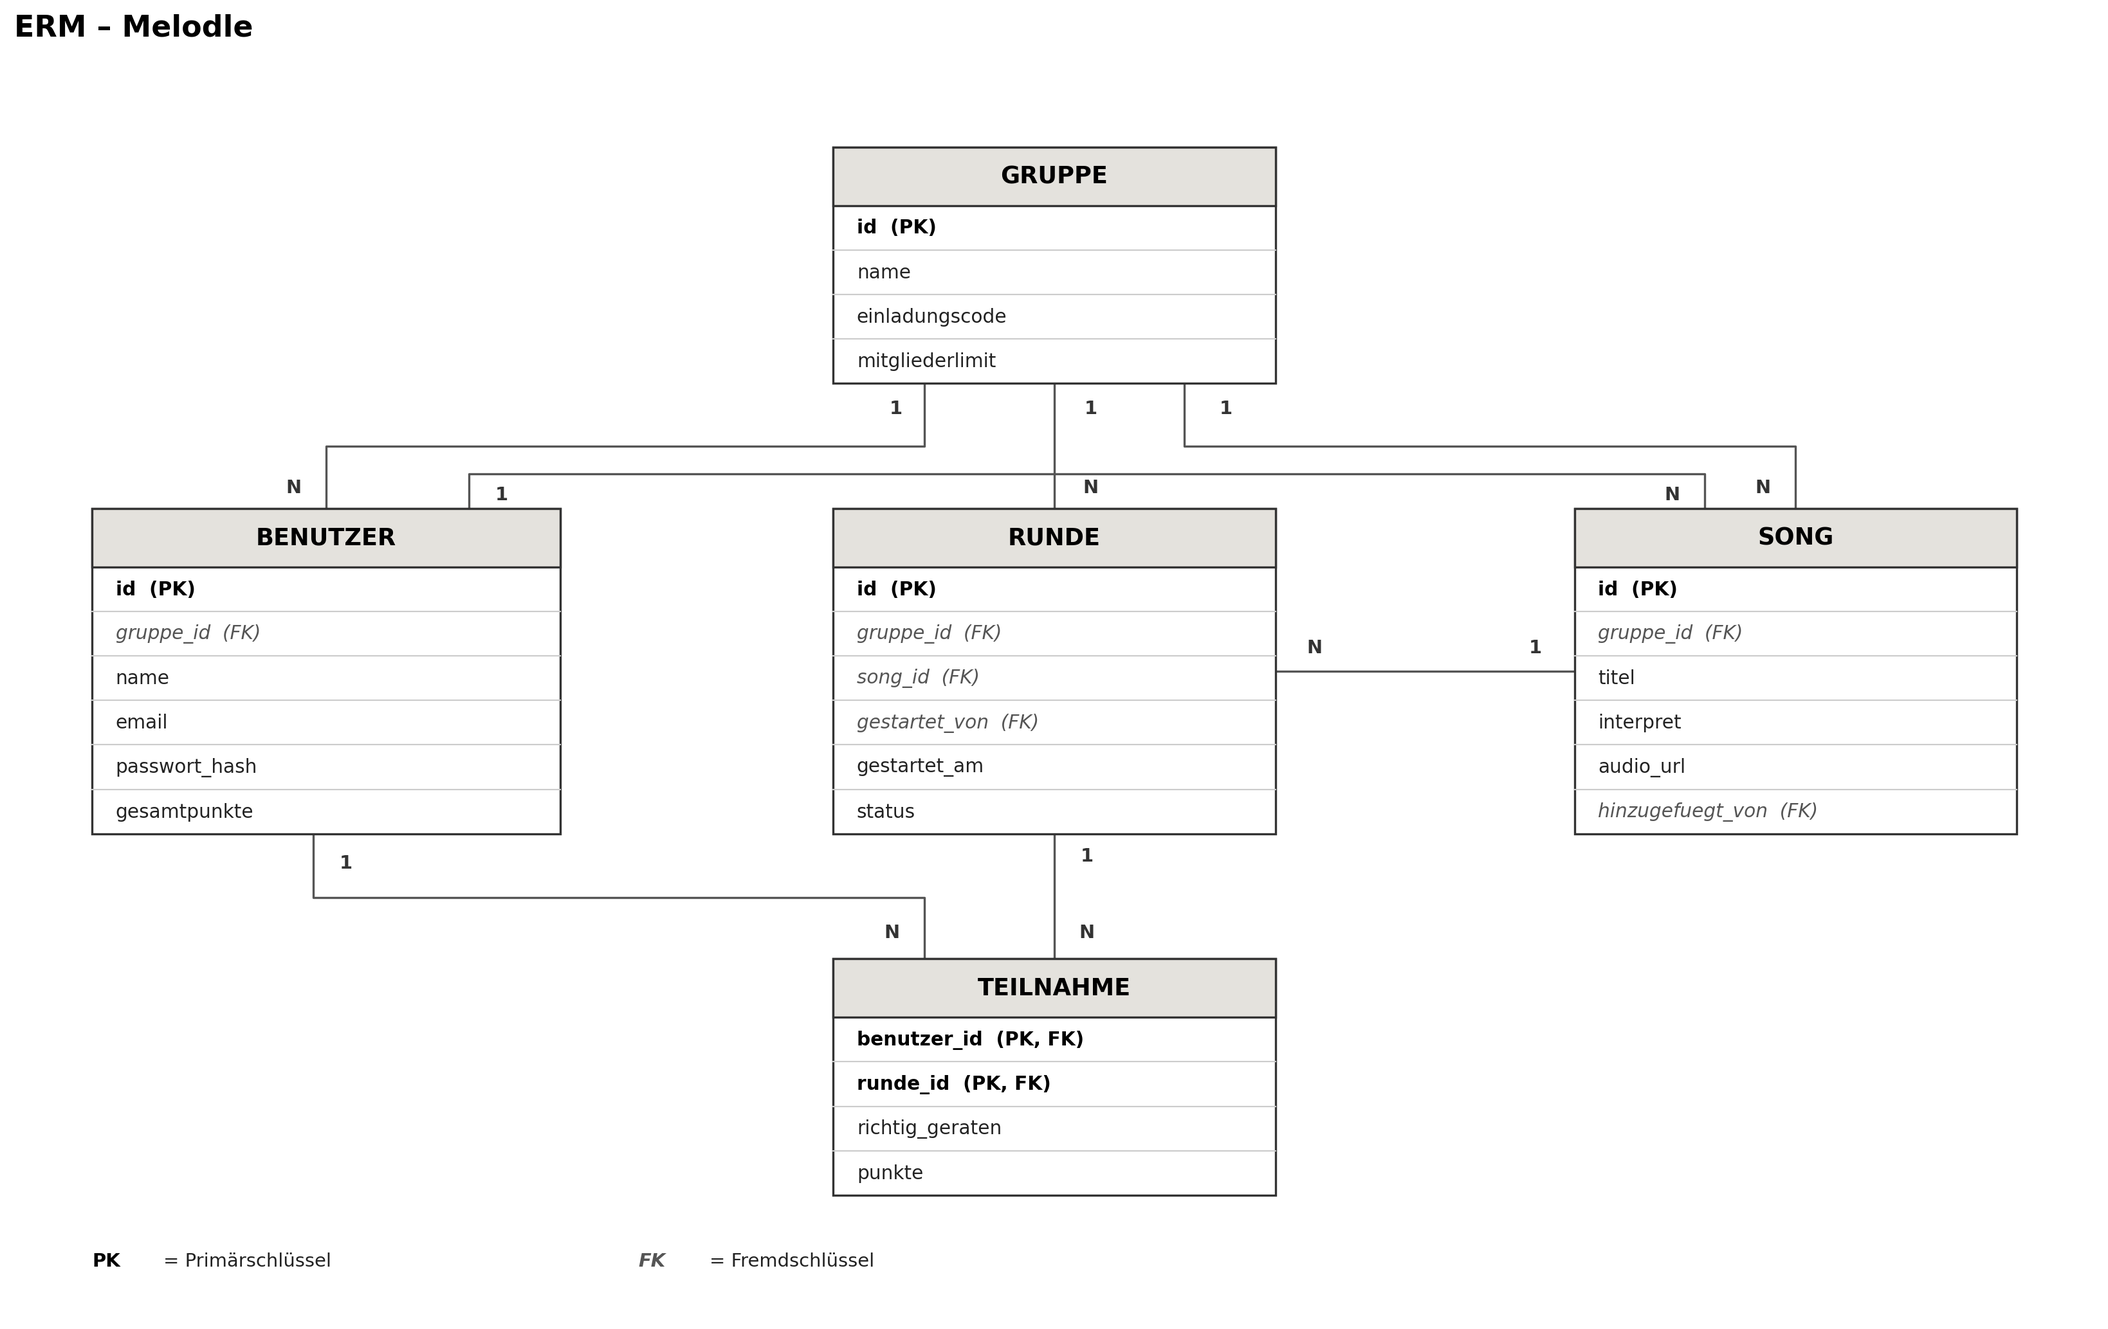
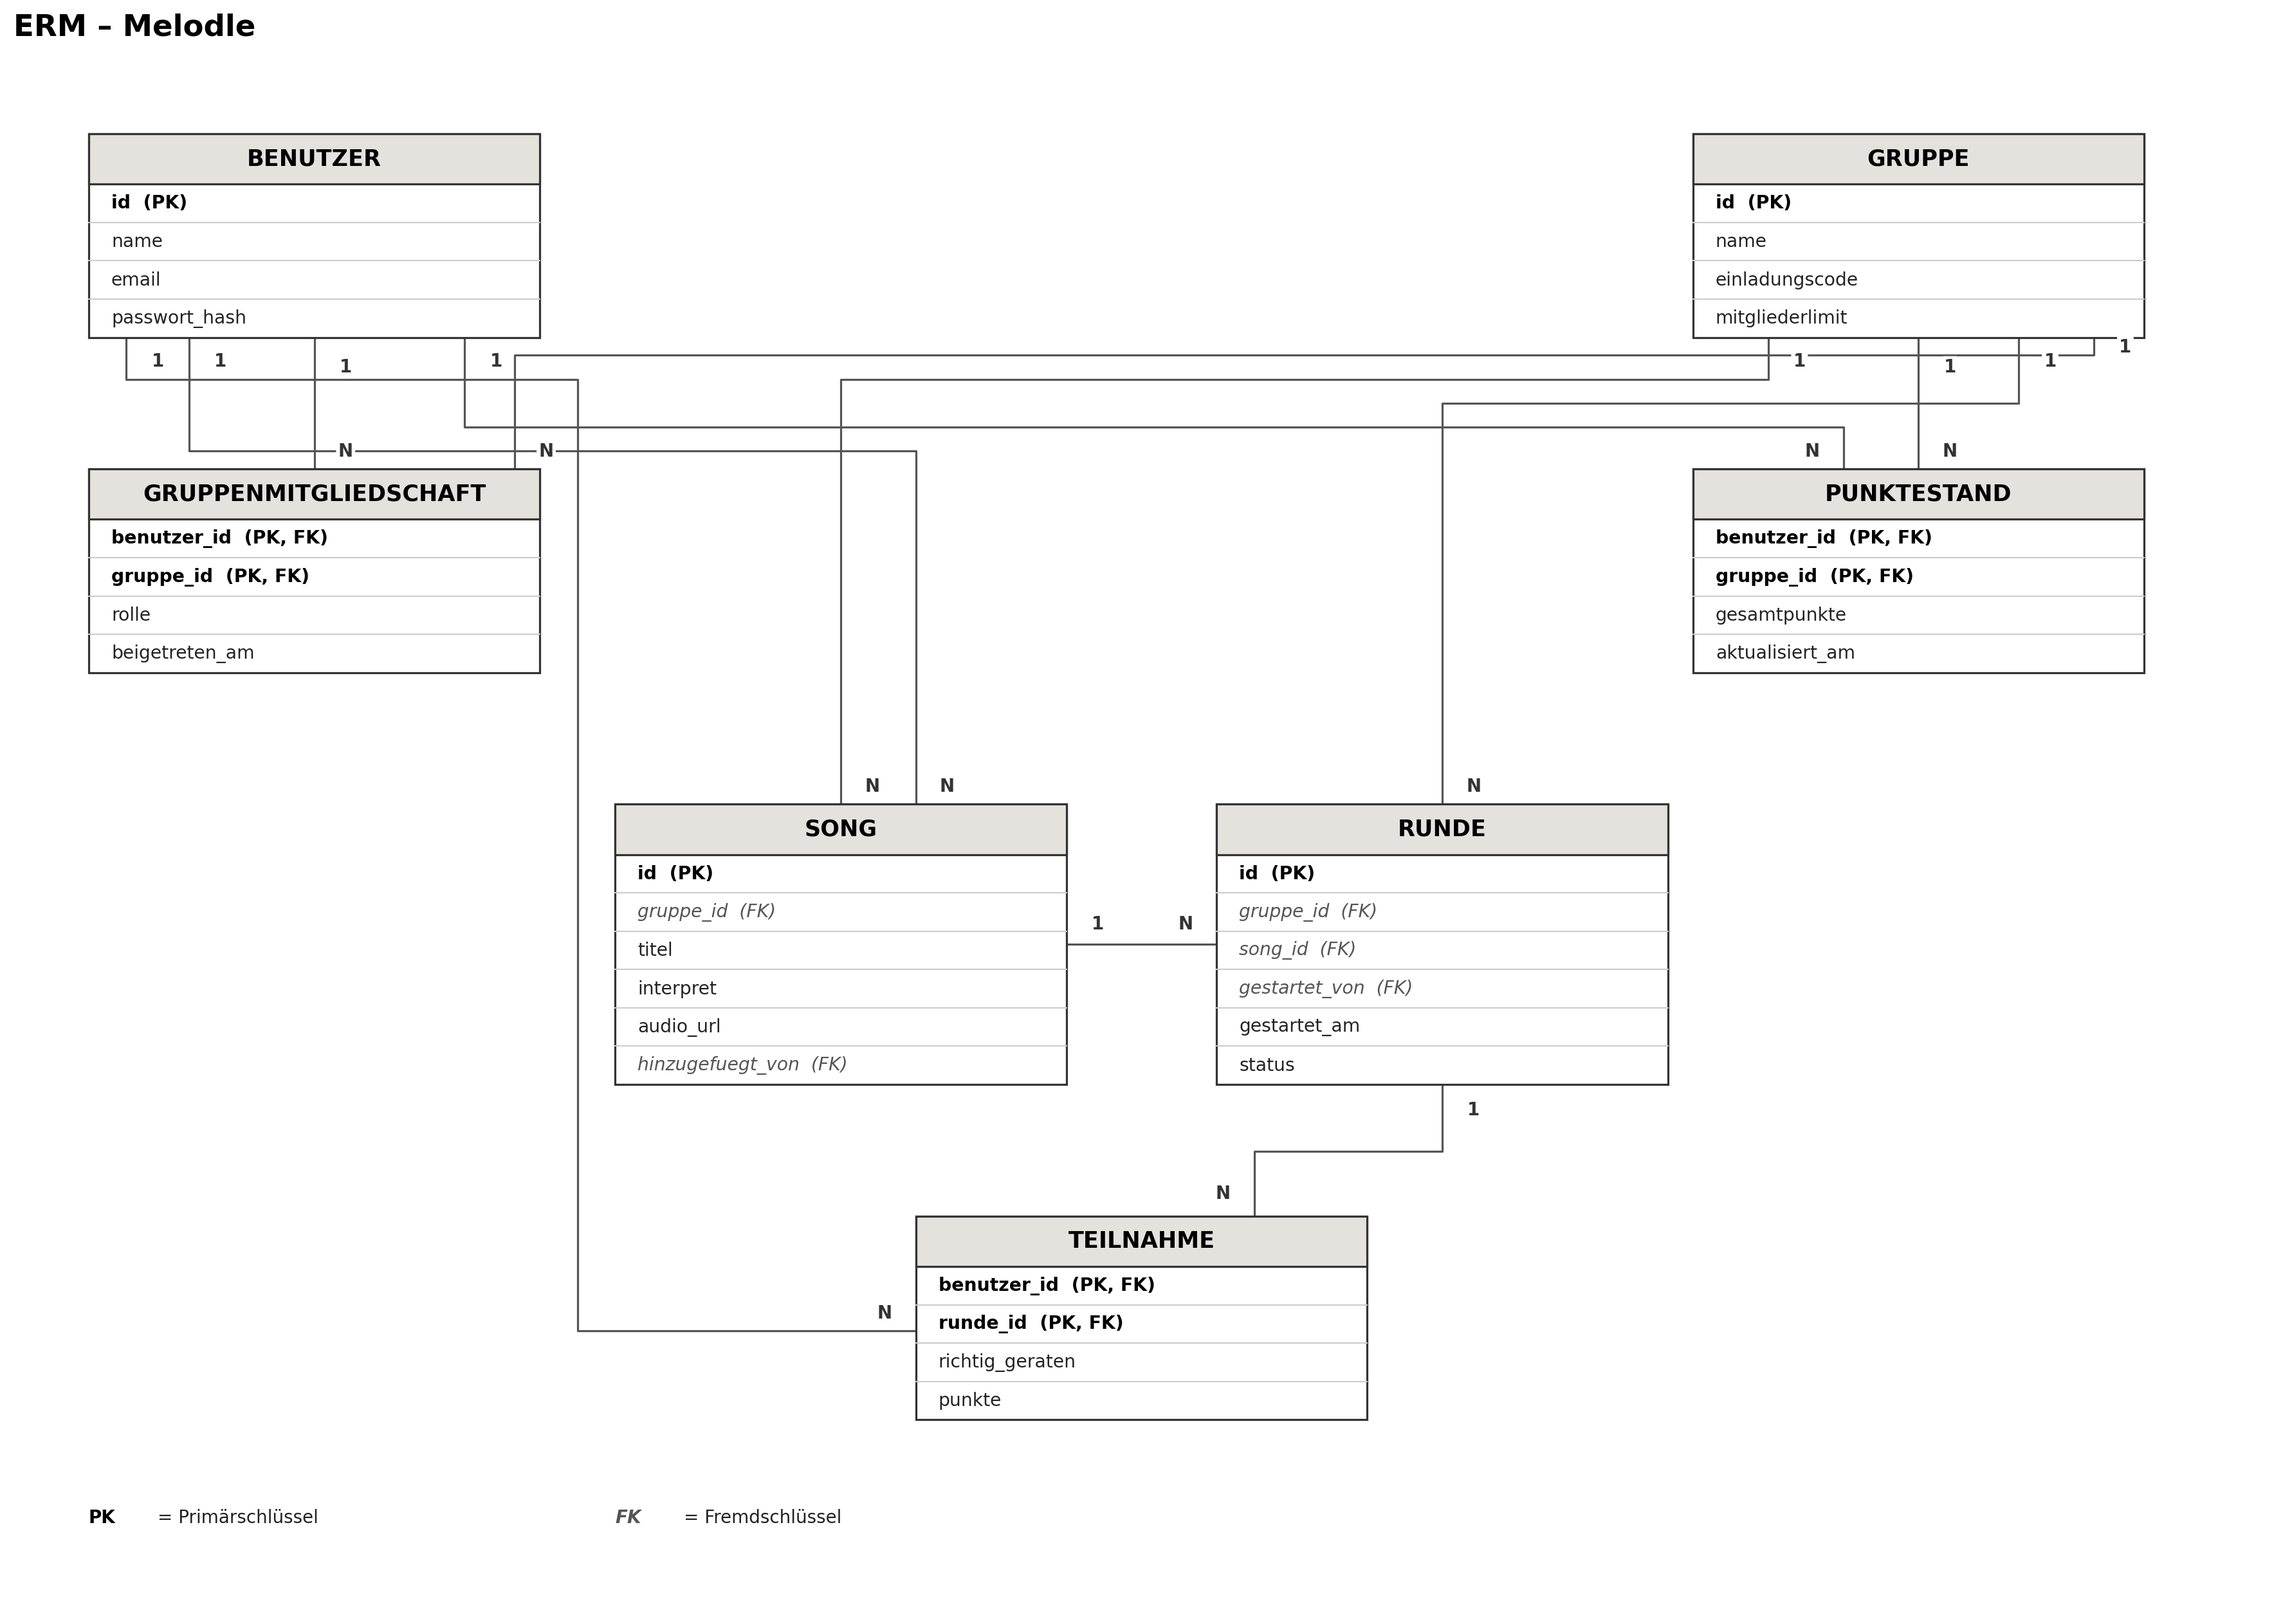
profiles password change blabalbala

diff --git a/test/integration/profile_test.rb b/test/integration/profile_test.rb
@@ -1,0 +1,81 @@
+require "test_helper"
+
+class ProfileTest < ActionDispatch::IntegrationTest
+  setup do
+    @user = users(:alice)
+  end
+
+  def login
+    post session_path, params: { email: @user.email, password: "correct-horse-battery" }
+  end
+
+  test "profile requires login" do
+    get profile_path
+    assert_redirected_to new_session_path
+  end
+
+  test "display name can be changed" do
+    login
+    patch profile_path, params: { user: { display_name: "Alice B", email: @user.email } }
+    assert_redirected_to profile_path
+    assert_equal "Alice B", @user.reload.display_name
+  end
+
+  test "blank display name is rejected with 422" do
+    login
+    patch profile_path, params: { user: { display_name: "", email: @user.email } }
+    assert_response :unprocessable_entity
+  end
+
+  test "email change is confirmed through the mailed link" do
+    login
+    assert_emails 1 do
+      patch profile_path, params: { user: { display_name: "Alice", email: "New@Example.com" } }
+    end
+    assert_equal "alice@example.com", @user.reload.email
+    assert_equal "new@example.com", @user.unconfirmed_email
+
+    get email_confirmation_path(@user.generate_token_for(:email_confirmation))
+    assert_equal "new@example.com", @user.reload.email
+    assert_nil @user.unconfirmed_email
+  end
+
+  test "email change to a taken address is rejected" do
+    User.create!(email: "taken@example.com", display_name: "T", password: "a-long-password-1")
+    login
+    assert_no_emails do
+      patch profile_path, params: { user: { display_name: "Alice", email: "taken@example.com" } }
+    end
+    assert_response :unprocessable_entity
+    assert_nil @user.reload.unconfirmed_email
+  end
+
+  test "invalid confirmation token is refused" do
+    get email_confirmation_path("garbage")
+    assert_redirected_to root_path
+  end
+
+  test "token becomes invalid when another address is requested" do
+    @user.request_email_change!("one@example.com")
+    token = @user.generate_token_for(:email_confirmation)
+    @user.request_email_change!("two@example.com")
+    get email_confirmation_path(token)
+    assert_equal "alice@example.com", @user.reload.email
+  end
+
+  test "password change requires the current password" do
+    login
+    patch password_path, params: { current_password: "wrong", user: { password: "another-long-pass-1", password_confirmation: "another-long-pass-1" } }
+    assert_response :unprocessable_entity
+    assert @user.reload.authenticate("correct-horse-battery")
+  end
+
+  test "password change with valid data works and enforces length" do
+    login
+    patch password_path, params: { current_password: "correct-horse-battery", user: { password: "short", password_confirmation: "short" } }
+    assert_response :unprocessable_entity
+    patch password_path, params: { current_password: "correct-horse-battery", user: { password: "another-long-pass-1", password_confirmation: "another-long-pass-1" } }
+    assert_redirected_to profile_path
+    assert @user.reload.authenticate("another-long-pass-1")
+  end
+end

diff --git a/db/schema.rb b/db/schema.rb
@@ -10,7 +10,7 @@
 #
 # It's strongly recommended that you check this file into your version control system.
 
-ActiveRecord::Schema[8.1].define(version: 2026_09_24_064559) do
+ActiveRecord::Schema[8.1].define(version: 2026_09_24_083217) do
   create_table "groups", force: :cascade do |t|
     t.datetime "created_at", null: false
     t.string "invite_code", null: false
@@ -62,6 +62,18 @@ ActiveRecord::Schema[8.1].define(version: 2026_09_24_064559) do
     t.index ["started_by_id"], name: "index_rounds_on_started_by_id"
   end
 
+  create_table "scores", force: :cascade do |t|
+    t.datetime "created_at", null: false
+    t.integer "group_id", null: false
+    t.integer "total_points", default: 0, null: false
+    t.datetime "updated_at", null: false
+    t.integer "user_id", null: false
+    t.index ["group_id", "total_points"], name: "index_scores_on_group_id_and_total_points"
+    t.index ["group_id"], name: "index_scores_on_group_id"
+    t.index ["user_id", "group_id"], name: "index_scores_on_user_id_and_group_id", unique: true
+    t.index ["user_id"], name: "index_scores_on_user_id"
+  end
+
   create_table "songs", force: :cascade do |t|
     t.integer "added_by_id", null: false
     t.string "artist", null: false
@@ -80,6 +92,7 @@ ActiveRecord::Schema[8.1].define(version: 2026_09_24_064559) do
     t.string "display_name", null: false
     t.string "email", null: false
     t.string "password_digest", null: false
+    t.string "unconfirmed_email"
     t.datetime "updated_at", null: false
     t.index ["email"], name: "index_users_on_email", unique: true
   end
@@ -91,6 +104,8 @@ ActiveRecord::Schema[8.1].define(version: 2026_09_24_064559) do
   add_foreign_key "rounds", "groups"
   add_foreign_key "rounds", "songs"
   add_foreign_key "rounds", "users", column: "started_by_id"
+  add_foreign_key "scores", "groups"
+  add_foreign_key "scores", "users"
   add_foreign_key "songs", "groups"
   add_foreign_key "songs", "users", column: "added_by_id"
 end

diff --git a/app/models/user.rb b/app/models/user.rb
@@ -3,12 +3,44 @@ class User < ApplicationRecord
 
   has_many :memberships, dependent: :destroy
   has_many :groups, through: :memberships
+  has_many :scores, dependent: :destroy
   has_many :participations, dependent: :destroy
+
+  generates_token_for :email_confirmation, expires_in: 1.hour do
+    unconfirmed_email
+  end
 
   normalizes :email, with: ->(email) { email.strip.downcase }
   normalizes :display_name, with: ->(name) { name.strip }
+  normalizes :unconfirmed_email, with: ->(email) { email.strip.downcase.presence }
 
   validates :email, presence: true, uniqueness: true, format: { with: URI::MailTo::EMAIL_REGEXP }
   validates :display_name, presence: true, length: { maximum: 30 }
+  validates :unconfirmed_email, format: { with: URI::MailTo::EMAIL_REGEXP }, allow_nil: true
   validates :password, length: { minimum: 12 }, allow_nil: true
+
+  # Stores the new address and mails a confirmation link in one transaction:
+  # if the mail cannot be built/sent, the change is rolled back.
+  def request_email_change!(new_email)
+    self.unconfirmed_email = new_email
+    unless valid? && unconfirmed_email_available?
+      errors.add(:unconfirmed_email, :taken) if errors[:unconfirmed_email].empty? && unconfirmed_email.present?
+      raise ActiveRecord::RecordInvalid, self
+    end
+    transaction do
+      save!
+      UserMailer.email_confirmation(self).deliver_now
+    end
+  end
+
+  def confirm_email_change!
+    return false if unconfirmed_email.blank?
+    update!(email: unconfirmed_email, unconfirmed_email: nil)
+  end
+
+  private
+
+  def unconfirmed_email_available?
+    unconfirmed_email.blank? || !User.where.not(id: id).exists?(email: unconfirmed_email)
+  end
 end

diff --git a/app/controllers/profiles_controller.rb b/app/controllers/profiles_controller.rb
@@ -1,0 +1,34 @@
+class ProfilesController < ApplicationController
+  before_action :require_login
+
+  def show
+    @user = current_user
+  end
+
+  def edit
+    @user = current_user
+  end
+
+  def update
+    @user = current_user
+    if @user.update(display_name: profile_params[:display_name])
+      notice = "Profil gespeichert."
+      new_email = profile_params[:email].to_s.strip.downcase
+      if new_email.present? && new_email != @user.email
+        @user.request_email_change!(new_email)
+        notice = "Profil gespeichert. Bitte bestätige die neue E-Mail-Adresse über den Link, den wir dir gesendet haben."
+      end
+      redirect_to profile_path, notice: notice
+    else
+      render :edit, status: :unprocessable_entity
+    end
+  rescue ActiveRecord::RecordInvalid
+    render :edit, status: :unprocessable_entity
+  end
+
+  private
+
+  def profile_params
+    params.expect(user: [ :display_name, :email ])
+  end
+end

diff --git a/test/models/schema_constraints_test.rb b/test/models/schema_constraints_test.rb
@@ -17,6 +17,14 @@ class SchemaConstraintsTest < ActiveSupport::TestCase
     assert_raises(ActiveRecord::RecordNotUnique) { Membership.new(user: @user, group: @group).save!(validate: false) }
   end
 
+  test "score is unique per user and group and increments atomically" do
+    score = Score.create!(user: @user, group: @group)
+    assert_raises(ActiveRecord::RecordNotUnique) { Score.new(user: @user, group: @group).save!(validate: false) }
+    Score.find(score.id).add_points!(50)
+    score.add_points!(30)
+    assert_equal 80, score.reload.total_points
+  end
+
   test "only one active round per group" do
     start = -> { @group.rounds.create!(song: @song, started_by: @user, started_at: Time.current) }
     start.call

diff --git a/app/controllers/passwords_controller.rb b/app/controllers/passwords_controller.rb
@@ -1,0 +1,25 @@
+class PasswordsController < ApplicationController
+  before_action :require_login
+
+  def edit
+  end
+
+  def update
+    user = current_user
+    if !user.authenticate(params[:current_password].to_s)
+      flash.now[:alert] = "Das aktuelle Passwort ist falsch."
+      render :edit, status: :unprocessable_entity
+    elsif user.update(password_params)
+      redirect_to profile_path, notice: "Passwort geändert."
+    else
+      @user = user
+      render :edit, status: :unprocessable_entity
+    end
+  end
+
+  private
+
+  def password_params
+    params.expect(user: [ :password, :password_confirmation ])
+  end
+end

diff --git a/app/controllers/email_confirmations_controller.rb b/app/controllers/email_confirmations_controller.rb
@@ -1,0 +1,12 @@
+class EmailConfirmationsController < ApplicationController
+  def show
+    user = User.find_by_token_for(:email_confirmation, params[:token])
+    if user&.confirm_email_change!
+      redirect_to(logged_in? ? profile_path : new_session_path, notice: "E-Mail-Adresse bestätigt.")
+    else
+      redirect_to root_path, alert: "Der Bestätigungslink ist ungültig oder abgelaufen."
+    end
+  rescue ActiveRecord::RecordInvalid
+    redirect_to root_path, alert: "Diese E-Mail-Adresse ist bereits vergeben."
+  end
+end

diff --git a/app/models/score.rb b/app/models/score.rb
@@ -1,0 +1,14 @@
+class Score < ApplicationRecord
+  belongs_to :user
+  belongs_to :group
+
+  validates :user_id, uniqueness: { scope: :group_id }
+  validates :total_points, numericality: { only_integer: true, greater_than_or_equal_to: 0 }
+
+  scope :leaderboard, -> { order(total_points: :desc).includes(:user) }
+
+  # Atomic increment (UPDATE ... SET total_points = total_points + n), safe against lost updates.
+  def add_points!(points)
+    self.class.update_counters(id, total_points: points)
+  end
+end

diff --git a/db/migrate/20260924064556_create_memberships.rb b/db/migrate/20260924064556_create_memberships.rb
@@ -4,11 +4,9 @@ class CreateMemberships < ActiveRecord::Migration[8.1]
       t.references :user, null: false, foreign_key: true
       t.references :group, null: false, foreign_key: true
       t.integer :role, null: false, default: 0
-      t.integer :total_points, null: false, default: 0
 
       t.timestamps
     end
     add_index :memberships, [ :user_id, :group_id ], unique: true
-    add_index :memberships, [ :group_id, :total_points ]
   end
 end

diff --git a/db/migrate/20260924064600_create_scores.rb b/db/migrate/20260924064600_create_scores.rb
@@ -1,0 +1,13 @@
+class CreateScores < ActiveRecord::Migration[8.1]
+  def change
+    create_table :scores do |t|
+      t.references :user, null: false, foreign_key: true
+      t.references :group, null: false, foreign_key: true
+      t.integer :total_points, null: false, default: 0
+
+      t.timestamps
+    end
+    add_index :scores, [ :user_id, :group_id ], unique: true
+    add_index :scores, [ :group_id, :total_points ]
+  end
+end

diff --git a/config/routes.rb b/config/routes.rb
@@ -4,6 +4,9 @@ Rails.application.routes.draw do
   resource :session, only: %i[new create destroy]
   resources :users, only: %i[new create]
   resource :dashboard, only: :show
+  resource :profile, only: %i[show edit update]
+  resource :password, only: %i[edit update]
+  get "email_confirmations/:token", to: "email_confirmations#show", as: :email_confirmation
 
   get "up" => "rails/health#show", as: :rails_health_check
 end

diff --git a/db/seeds.rb b/db/seeds.rb
@@ -12,6 +12,7 @@ end
 group = Group.find_or_create_by!(name: "Demo Group") { |g| g.member_limit = 20 }
 Membership.find_or_create_by!(user: host, group: group) { |m| m.role = :host }
 [ anna, ben ].each { |u| Membership.find_or_create_by!(user: u, group: group) { |m| m.role = :player } }
+[ host, anna, ben ].each { |u| Score.find_or_create_by!(user: u, group: group) }
 
 [
   [ "Bohemian Rhapsody", "Queen" ],
